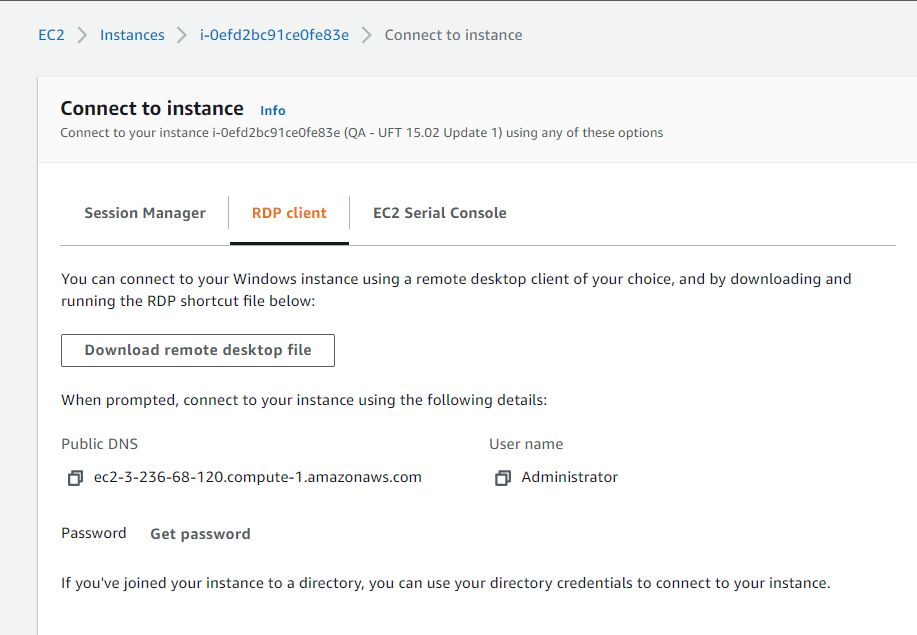
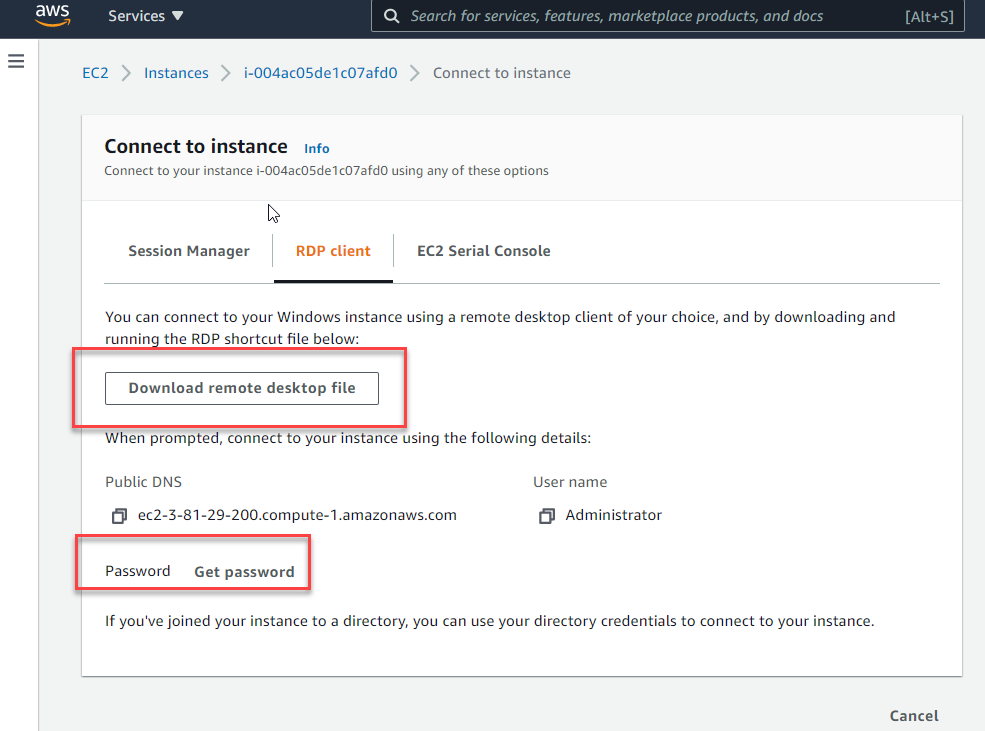
avi

diff --git a/content/30_Initiate_UFTOne_Instance/3_getting_started.md b/content/30_Initiate_UFTOne_Instance/3_getting_started.md
@@ -1,0 +1,32 @@
+---
+title: "Connect to Your Instance"
+chapter: false
+weight: 33
+pre: "<b>3.3 </b>"
+---
+
+## Connect to your instance
+
+**:white_check_mark: Find your Instance**
+
+1. Search and find your instance based on tag you created. Make sure the instance is **running** State. Select it and **Connect**.
+
+![Step 1](/images/30_Initiate_UFTOne_Instance/connect.png)
+
+**:white_check_mark: Retrieve Password**
+
+2. Switch to **RDP Client**. Download **Remote Desktop file** and click on **Get Password**.
+
+![Step 2](/images/30_Initiate_UFTOne_Instance/retrive_password.png)
+
+On the **Get Windows Password** page, **browse** to retrieve your **.pem** file and click **Decrypt Password**.
+
+![Step 3](/images/30_Initiate_UFTOne_Instance/get_password.png)
+
+**:white_check_mark: Connect to UFT One Instance**
+
+4. Double click on the **Remote Sesktop file** you downlaoded and enter credentials you retrieved.
+
+5. After conecting, double click on **UFT One** desktop icon to start the application.
+
+![Step 4](/images/30_Initiate_UFTOne_Instance/double_click_on_uft_button.png)
